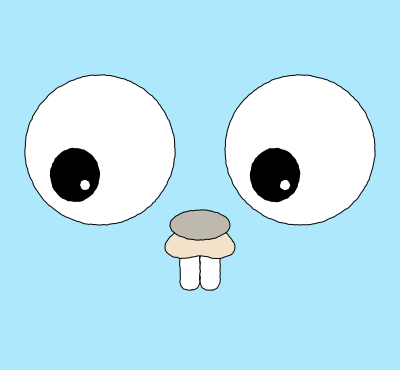
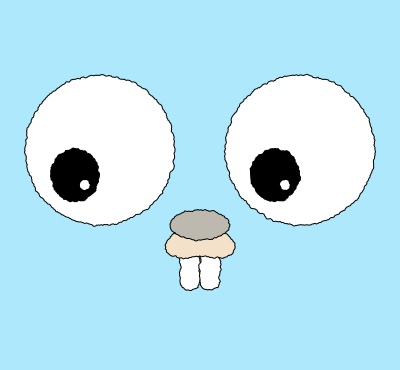
Added MPD path processor

diff --git a/mpdproc.go b/mpdproc.go
@@ -1,0 +1,65 @@
+package graphics2d
+
+import (
+	"github.com/jphsd/graphics2d/util"
+	"math/rand"
+)
+
+// MPDProc contains the vairables that control the degree to which a step is chopped up into smaller
+// line segments. Unlike JitterProc, the step end points don't vary. Can be used with MunchProc to get
+// a hand drawn look.
+type MPDProc struct {
+	Perc  float64 // Percentage of step length used as initial displacement
+	Itrs  int     // Number of iterations to perform
+	Scale float64 // Multiplier used on displacement per iteration
+}
+
+// Process implements the PathProcessor interface.
+func (m *MPDProc) Process(p *Path) []*Path {
+	parts := p.Parts()
+	np := len(parts)
+	if np == 0 {
+		return []*Path{p}
+	}
+
+	nparts := [][][]float64{}
+	for _, part := range parts {
+		a := part[0]
+		b := part[len(part)-1]
+		points := m.MPD(a, b)
+		lp := len(points)
+		cp := points[0]
+		for i := 1; i < lp; i++ {
+			np := points[i]
+			nparts = append(nparts, [][]float64{cp, np})
+			cp = np
+		}
+	}
+
+	return []*Path{PartsToPath(nparts...)}
+}
+
+// MPD takes two points and adds points between them using the mid-point displacement algorithm
+// drive by the parameters stored in the MPDProc structure.
+func (m *MPDProc) MPD(a, b []float64) [][]float64 {
+	if m.Itrs == 0 {
+		return [][]float64{a, b}
+	}
+	v := util.Vec(a, b)
+	d := util.VecMag(v)
+	n := []float64{-v[1] / d, v[0] / d}
+	return m.mpdhelper(a, b, n, m.Itrs, d*m.Perc)
+}
+
+func (m *MPDProc) mpdhelper(a, b, n []float64, itr int, disp float64) [][]float64 {
+	mpx, mpy := (a[0]+b[0])/2, (a[1]+b[1])/2
+	d := (rand.Float64()*2 - 1) * disp
+	c := []float64{mpx + d*n[0], mpy + d*n[1]}
+	if itr == 1 {
+		return [][]float64{a, c, b}
+	}
+	ndisp := disp * m.Scale
+	lhs := m.mpdhelper(a, c, n, itr-1, ndisp)
+	rhs := m.mpdhelper(c, b, n, itr-1, ndisp)
+	return append(lhs, rhs[1:]...)
+}

diff --git a/README.md b/README.md
@@ -4,9 +4,13 @@
 [![Go Report Card](https://goreportcard.com/badge/github.com/jphsd/graphics2d)](https://goreportcard.com/report/github.com/jphsd/graphics2d)
 [![Build Status](https://travis-ci.com/jphsd/graphics2d.svg?branch=master)](https://travis-ci.com/github/jphsd/graphics2d)
 
+![Gopher rendered with graphics2d](./doc/gopher.png)
 ![Gopher rendered with graphics2d](./doc/hdgopher.png)
 
+The gopher rendered with two different path processors.
+
 Still very much under development although the image functions are about as complete as I'm going to make them.
+
 Note - the go:embed feature from v1.16 is required to build and go vet will fail for go versions < 1.17 due
 to the new way of handling build tags.
 
